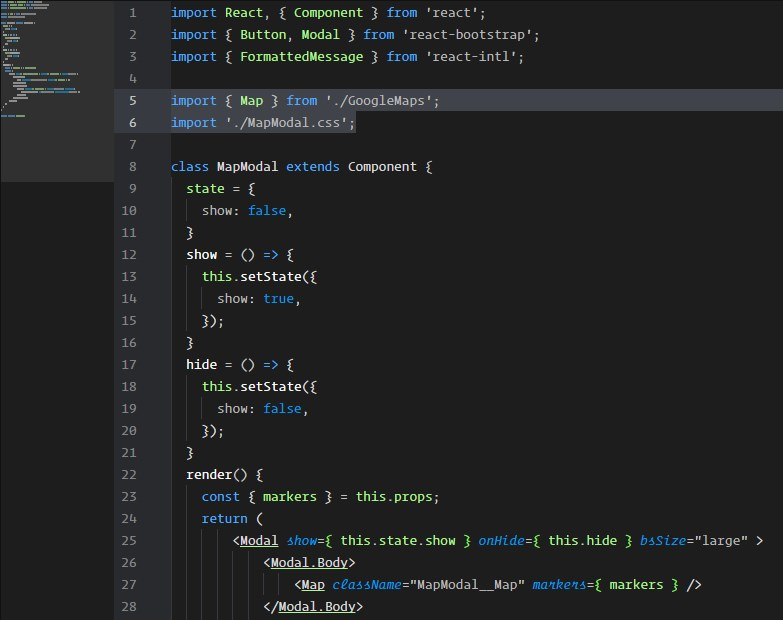
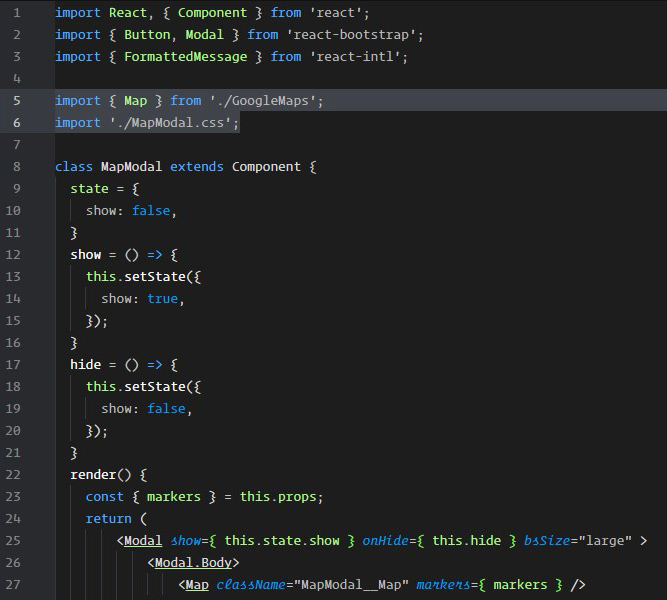
Info update

Changed region(s): [[0.0, 0.0, 1.0, 0.99], [0.0, 0.27, 0.03, 0.99]]

diff --git a/README.md b/README.md
@@ -1,5 +1,5 @@
-# deloittedigital-syntax theme
+# deloitte-digital-syntax theme
 
-A short description of your theme.
+A clear and readable syntax theme based on the Deloitte Digital color scheme.
 
-![A screenshot of your theme](https://f.cloud.github.com/assets/69169/2289498/4c3cb0ec-a009-11e3-8dbd-077ee11741e5.gif)
+![Theme preview](http://imgur.com/a/GD9i0)

diff --git a/LICENSE.md b/LICENSE.md
@@ -1,4 +1,4 @@
-Copyright (c) 2017 <Your name here>
+Copyright (c) 2017 Ben Broens
 
 Permission is hereby granted, free of charge, to any person obtaining
 a copy of this software and associated documentation files (the
